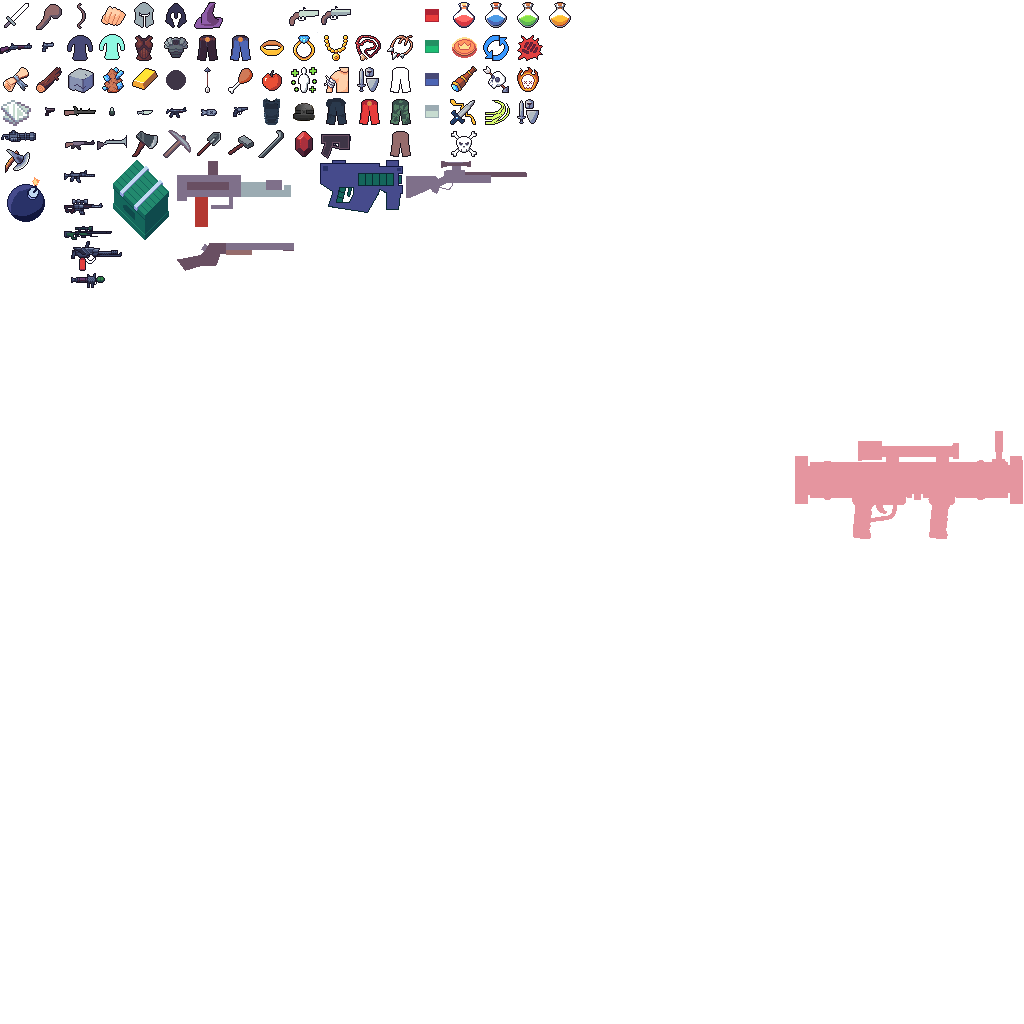
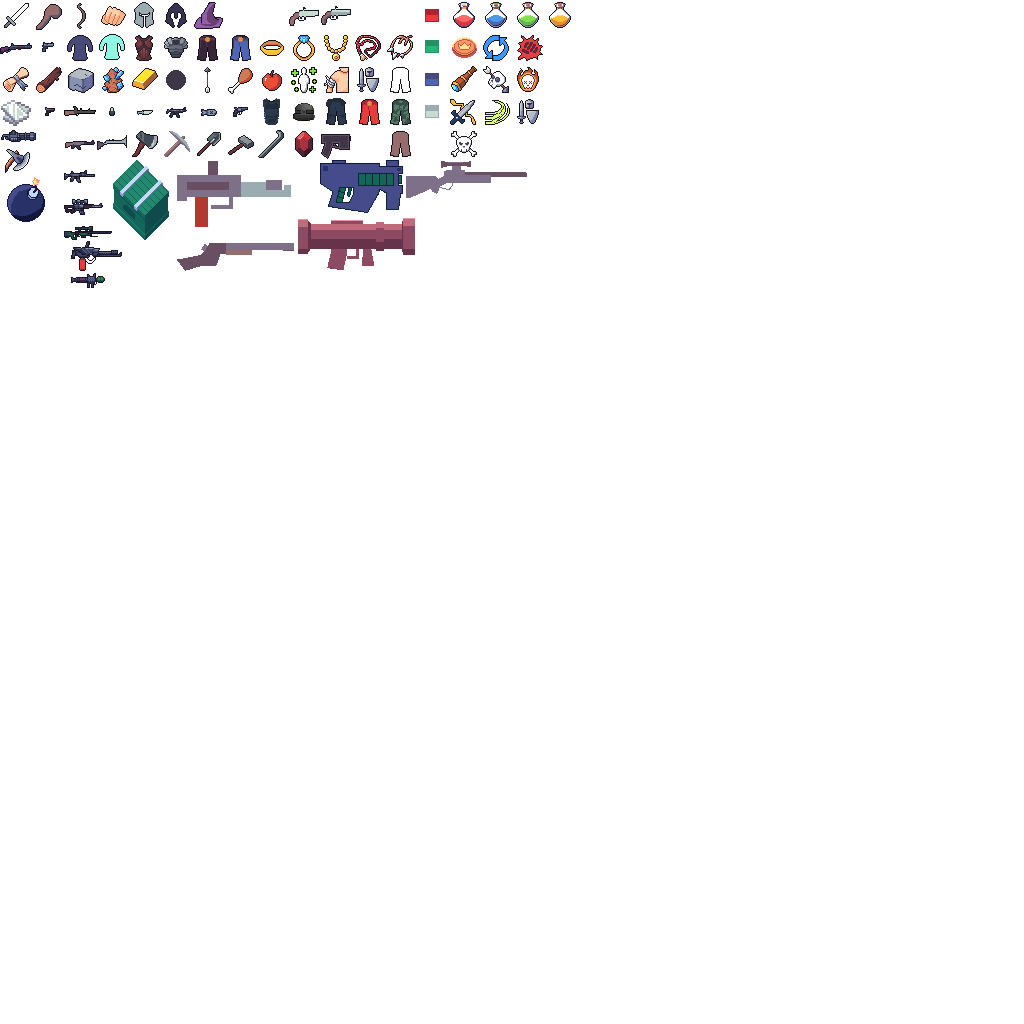
0.7.784

Changed region(s): [[0.75, 0.4062, 1.0, 0.5312], [0.2812, 0.2188, 0.4062, 0.2812], [0.1562, 0.125, 0.1875, 0.1562]]

diff --git a/gamestream_flutter/lib/game_atlas.dart b/gamestream_flutter/lib/game_atlas.dart
@@ -81,7 +81,7 @@ class AtlasItems {
         ItemType.Weapon_Ranged_Sniper_Rifle: 406,
         ItemType.Weapon_Ranged_Smg: 783,
         ItemType.Weapon_Ranged_Flamethrower: 177,
-        ItemType.Weapon_Ranged_Bazooka: 795,
+        ItemType.Weapon_Ranged_Bazooka: 298,
         ItemType.Weapon_Ranged_Minigun: 1,
         ItemType.Weapon_Ranged_Plasma_Pistol: 321,
         ItemType.Resource_Wood: 32,
@@ -187,7 +187,7 @@ class AtlasItems {
         ItemType.Weapon_Ranged_Sniper_Rifle: 161,
         ItemType.Weapon_Ranged_Smg: 85,
         ItemType.Weapon_Ranged_Flamethrower: 161,
-        ItemType.Weapon_Ranged_Bazooka: 431,
+        ItemType.Weapon_Ranged_Bazooka: 219,
         ItemType.Weapon_Ranged_Minigun: 130,
         ItemType.Weapon_Ranged_Plasma_Pistol: 134,
         ItemType.Base_Health: 64,
@@ -232,7 +232,7 @@ class AtlasItems {
         ItemType.GameObjects_Pipe_Vertical: 8,
         ItemType.Weapon_Ranged_Sniper_Rifle: 121,
         ItemType.Weapon_Ranged_Flamethrower: 114,
-        ItemType.Weapon_Ranged_Bazooka: 228,
+        ItemType.Weapon_Ranged_Bazooka: 117,
         ItemType.Weapon_Ranged_Minigun: 35,
         ItemType.Weapon_Ranged_Rifle: 429,
         ItemType.Weapon_Ranged_Smg: 240,
@@ -275,7 +275,7 @@ class AtlasItems {
         ItemType.GameObjects_Vending_Upgrades: 94,
         ItemType.GameObjects_Pipe_Vertical: 40,
         ItemType.Weapon_Ranged_Sniper_Rifle: 37,
-        ItemType.Weapon_Ranged_Bazooka: 108,
+        ItemType.Weapon_Ranged_Bazooka: 52,
         ItemType.Weapon_Ranged_Minigun: 12,
         ItemType.Weapon_Ranged_Rifle: 83,
         ItemType.Weapon_Ranged_Smg: 150,

diff --git a/bleed-common/lib/src/version.dart b/bleed-common/lib/src/version.dart
@@ -1,4 +1,4 @@
-const version = '0.7.483';
+const version = '0.7.484';
 
 
 

diff --git a/bleed-server/lib/common/src/version.dart b/bleed-server/lib/common/src/version.dart
@@ -1,4 +1,4 @@
-const version = '0.7.483';
+const version = '0.7.484';
 
 
 
